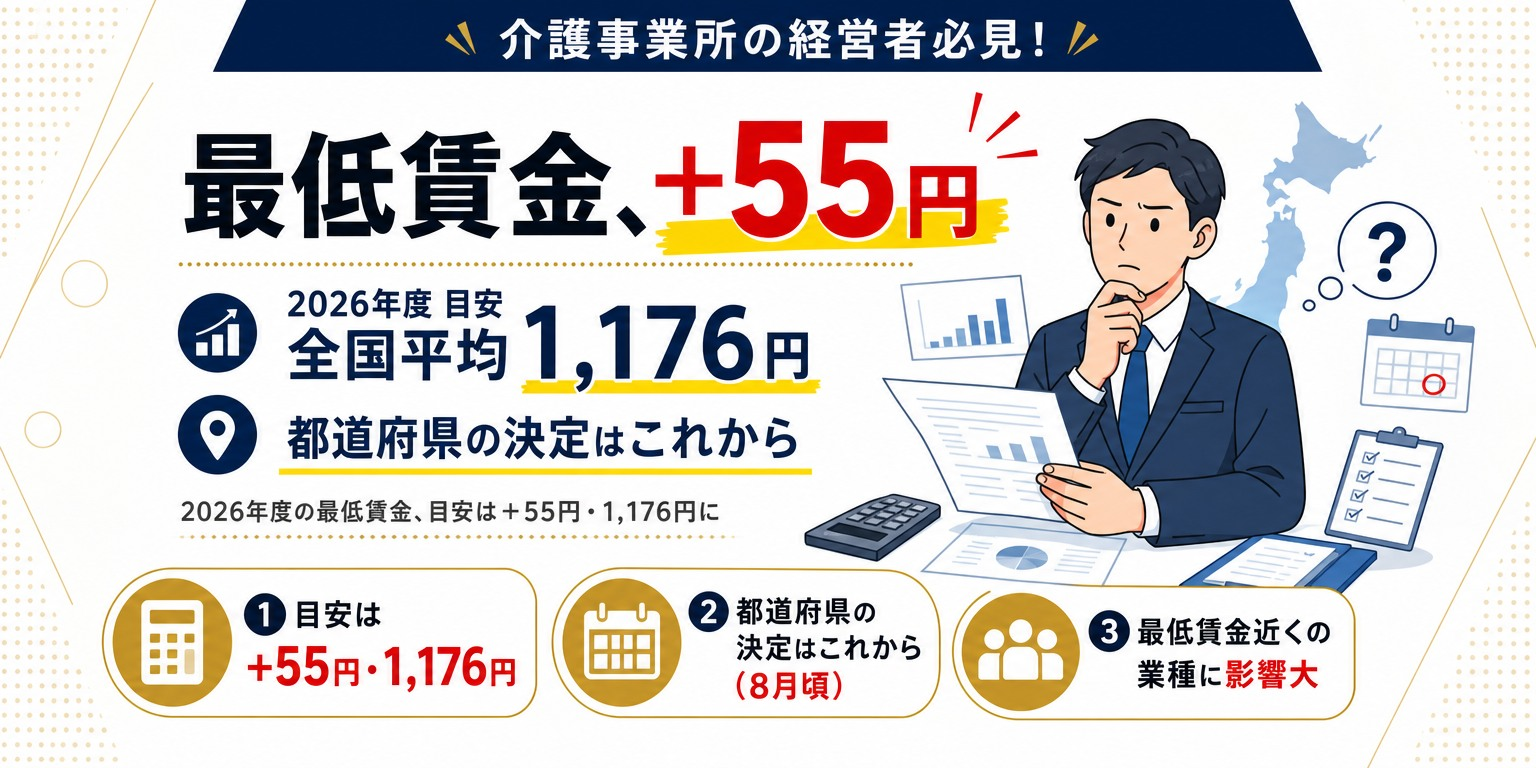
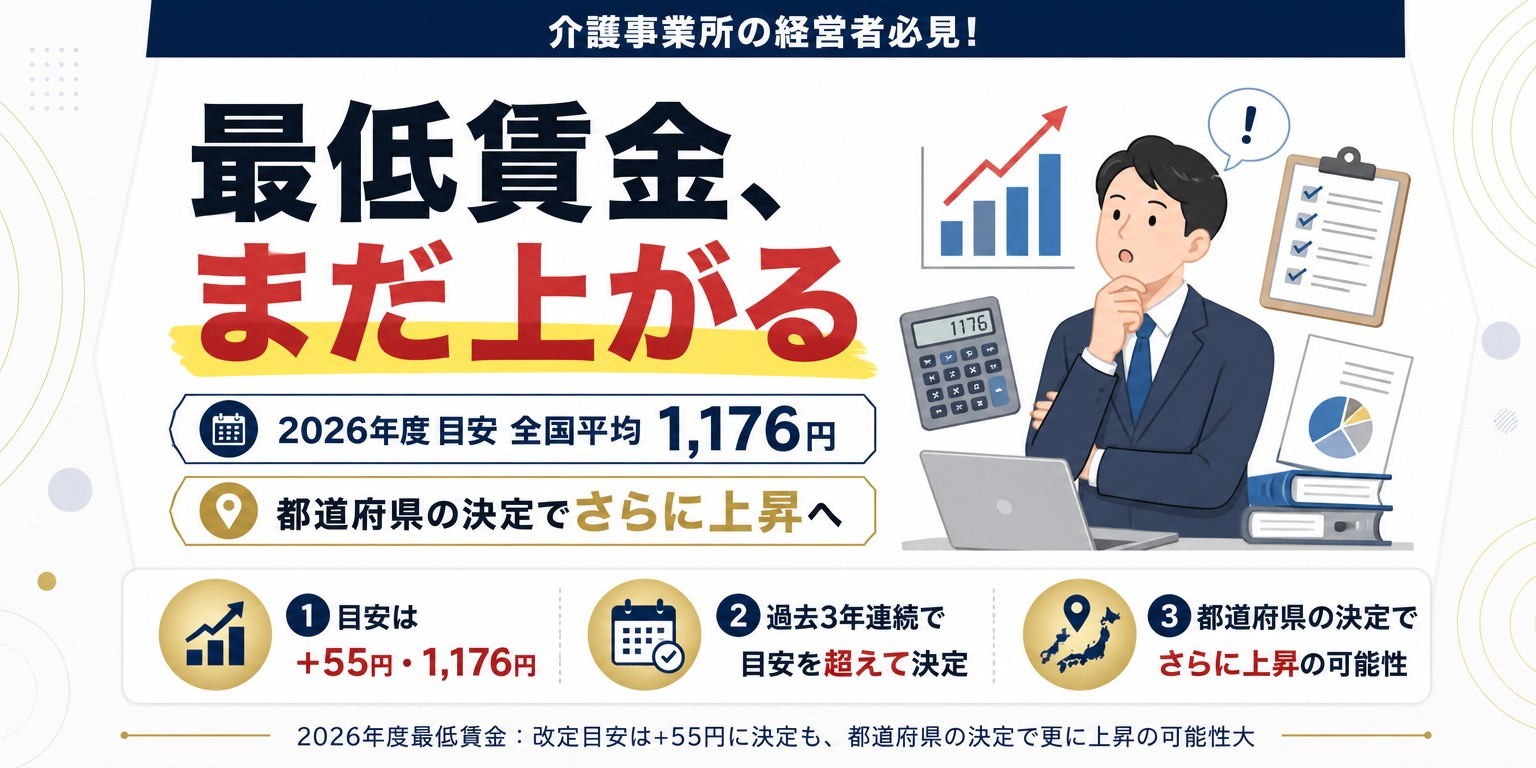
最低賃金2026年度コラムのタイトルとサムネイルを更新
タイトルをより直接的な表現(改定目安は+55円に決定も、都道府県の決定で更に上昇の可能性大)に変更し、サムネイル画像もフック文言を合わせて再生成。

diff --git a/columns/saiteichingin-2026-mokuyasu.html b/columns/saiteichingin-2026-mokuyasu.html
@@ -13,11 +13,11 @@
 
 <meta charset="UTF-8">
 <meta name="viewport" content="width=device-width, initial-scale=1.0">
-<title>最低賃金2026年度、+55円は序の口｜介護経営パートナーズ</title>
+<title>2026年度最低賃金：改定目安は+55円に決定も、都道府県の決定で更に上昇の可能性大｜介護経営パートナーズ</title>
 <meta name="description" content="2026年度最低賃金の目安は+55円・1,176円ですが、過去3年連続で全国平均も目安を上回り、上回った都道府県数も24→27→39と増加しています。今年も上振れが予想される理由と、主要都道府県の試算額を解説します。">
 <link rel="canonical" href="https://kaigokeiei-partners.jp/columns/saiteichingin-2026-mokuyasu.html">
 <meta property="og:type" content="article">
-<meta property="og:title" content="最低賃金2026年度、+55円は序の口｜介護経営パートナーズ">
+<meta property="og:title" content="2026年度最低賃金：改定目安は+55円に決定も、都道府県の決定で更に上昇の可能性大｜介護経営パートナーズ">
 <meta property="og:description" content="2026年度最低賃金の目安は+55円・1,176円ですが、過去3年連続で全国平均も目安を上回り、上回った都道府県数も24→27→39と増加しています。今年も上振れが予想される理由と、主要都道府県の試算額を解説します。">
 <meta property="og:url" content="https://kaigokeiei-partners.jp/columns/saiteichingin-2026-mokuyasu.html">
 <meta property="og:site_name" content="介護経営パートナーズ">
@@ -55,7 +55,7 @@
 {
   "@context": "https://schema.org",
   "@type": "Article",
-  "headline": "2026年度の最低賃金、「+55円」は序の口。3年連続で目安を超えてきた現実",
+  "headline": "2026年度最低賃金：改定目安は+55円に決定も、都道府県の決定で更に上昇の可能性大",
   "description": "2026年度最低賃金の目安は+55円・1,176円ですが、過去3年連続で全国平均も目安を上回り、上回った都道府県数も24→27→39と増加しています。今年も上振れが予想される理由と、主要都道府県の試算額を解説します。",
   "image": "https://kaigokeiei-partners.jp/images/column-saiteichingin-2026-mokuyasu.jpg",
   "datePublished": "2026-08-02",
@@ -118,7 +118,7 @@
 
 <nav class="breadcrumb" aria-label="パンくずリスト">
   <div class="container">
-    <a href="../index.html">HOME</a><span aria-hidden="true">›</span><a href="index.html">コラム</a><span aria-hidden="true">›</span><span>最低賃金2026年度、+55円は序の口</span>
+    <a href="../index.html">HOME</a><span aria-hidden="true">›</span><a href="index.html">コラム</a><span aria-hidden="true">›</span><span>2026年度最低賃金、改定目安は+55円</span>
   </div>
 </nav>
 
@@ -126,10 +126,10 @@
   <section class="section section-alt">
     <div class="container">
       <article class="column-article">
-        <img class="article-featured-image" src="../images/column-saiteichingin-2026-mokuyasu.jpg" alt="2026年度の最低賃金、「+55円」は序の口。3年連続で目安を超えてきた現実" loading="lazy">
+        <img class="article-featured-image" src="../images/column-saiteichingin-2026-mokuyasu.jpg" alt="2026年度最低賃金：改定目安は+55円に決定も、都道府県の決定で更に上昇の可能性大" loading="lazy">
         <header class="article-header">
           <p class="column-date">2026.08.02</p>
-          <h1>2026年度の最低賃金、「+55円」は序の口。3年連続で目安を超えてきた現実</h1>
+          <h1>2026年度最低賃金：改定目安は+55円に決定も、都道府県の決定で更に上昇の可能性大</h1>
           <p style="font-size:0.85rem;color:var(--text-muted);">執筆者：<a href="../profile.html">金親英聖</a>（介護経営パートナーズ代表）</p>
         </header>
         <div class="article-body">

diff --git a/columns/index.html b/columns/index.html
@@ -109,11 +109,11 @@
       <div class="column-list full">
 
         <div class="column-card">
-          <a class="card-link-wrap" href="saiteichingin-2026-mokuyasu.html" aria-label="2026年度の最低賃金、「+55円」は序の口。3年連続で目安を超えてきた現実"></a>
+          <a class="card-link-wrap" href="saiteichingin-2026-mokuyasu.html" aria-label="2026年度最低賃金：改定目安は+55円に決定も、都道府県の決定で更に上昇の可能性大"></a>
           <img class="column-thumb" src="../images/column-saiteichingin-2026-mokuyasu.jpg" alt="" loading="lazy">
           <div class="column-card-body">
             <p class="column-date">2026.08.02</p>
-            <h3>2026年度の最低賃金、「+55円」は序の口。3年連続で目安を超えてきた現実</h3>
+            <h3>2026年度最低賃金：改定目安は+55円に決定も、都道府県の決定で更に上昇の可能性大</h3>
             <span class="card-more">続きを読む→</span>
           </div>
         </div>
